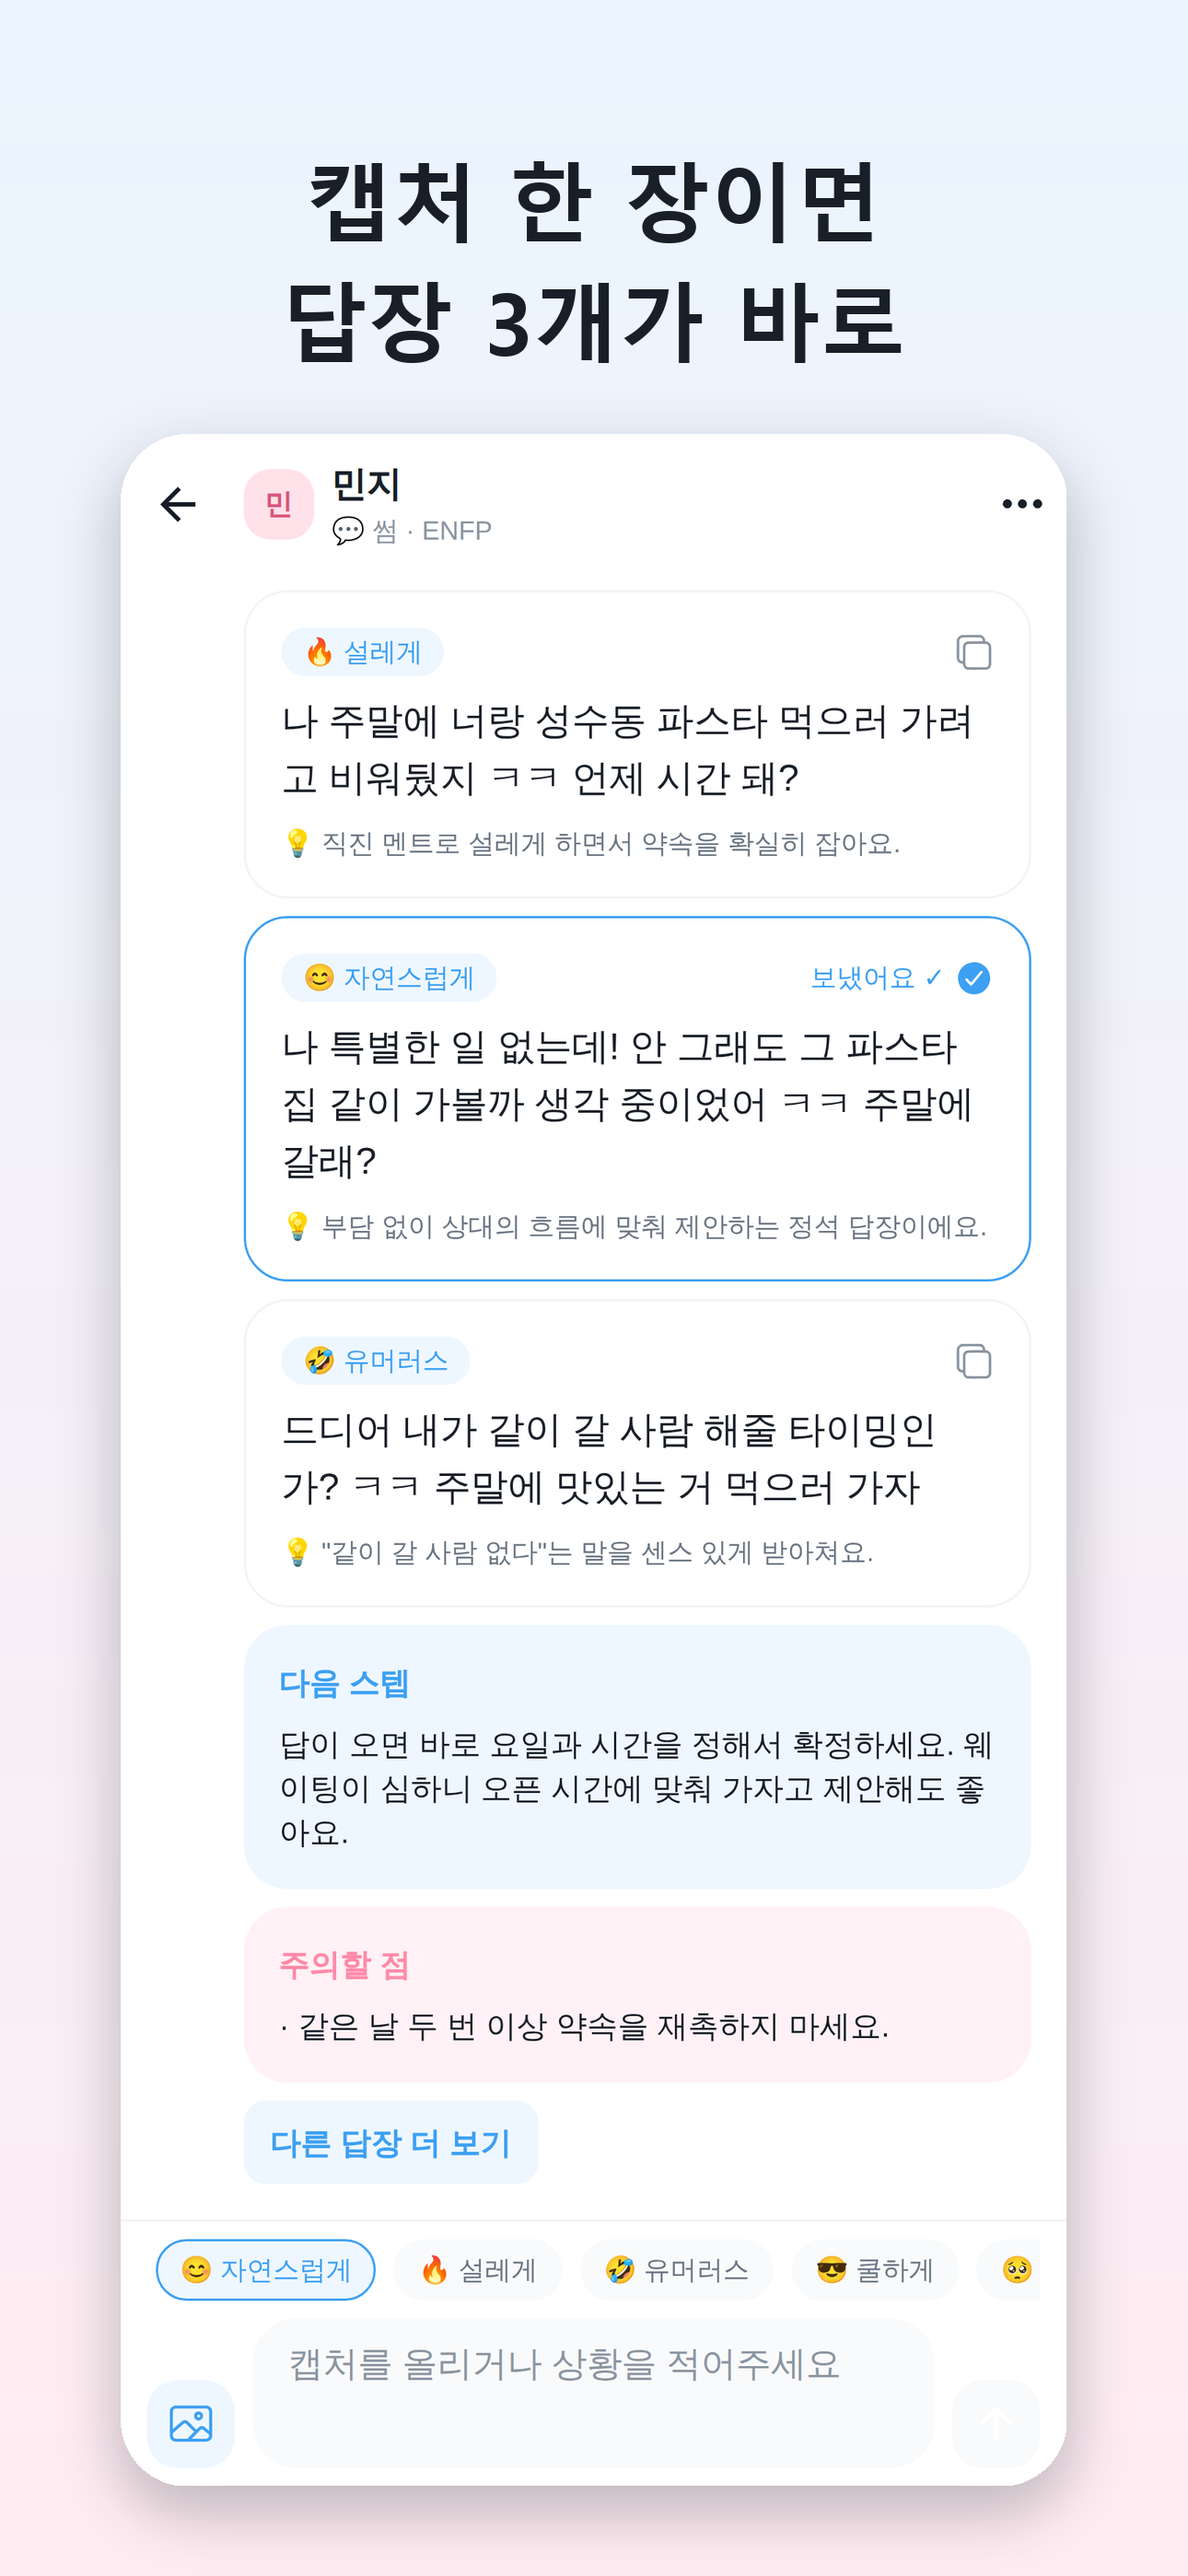
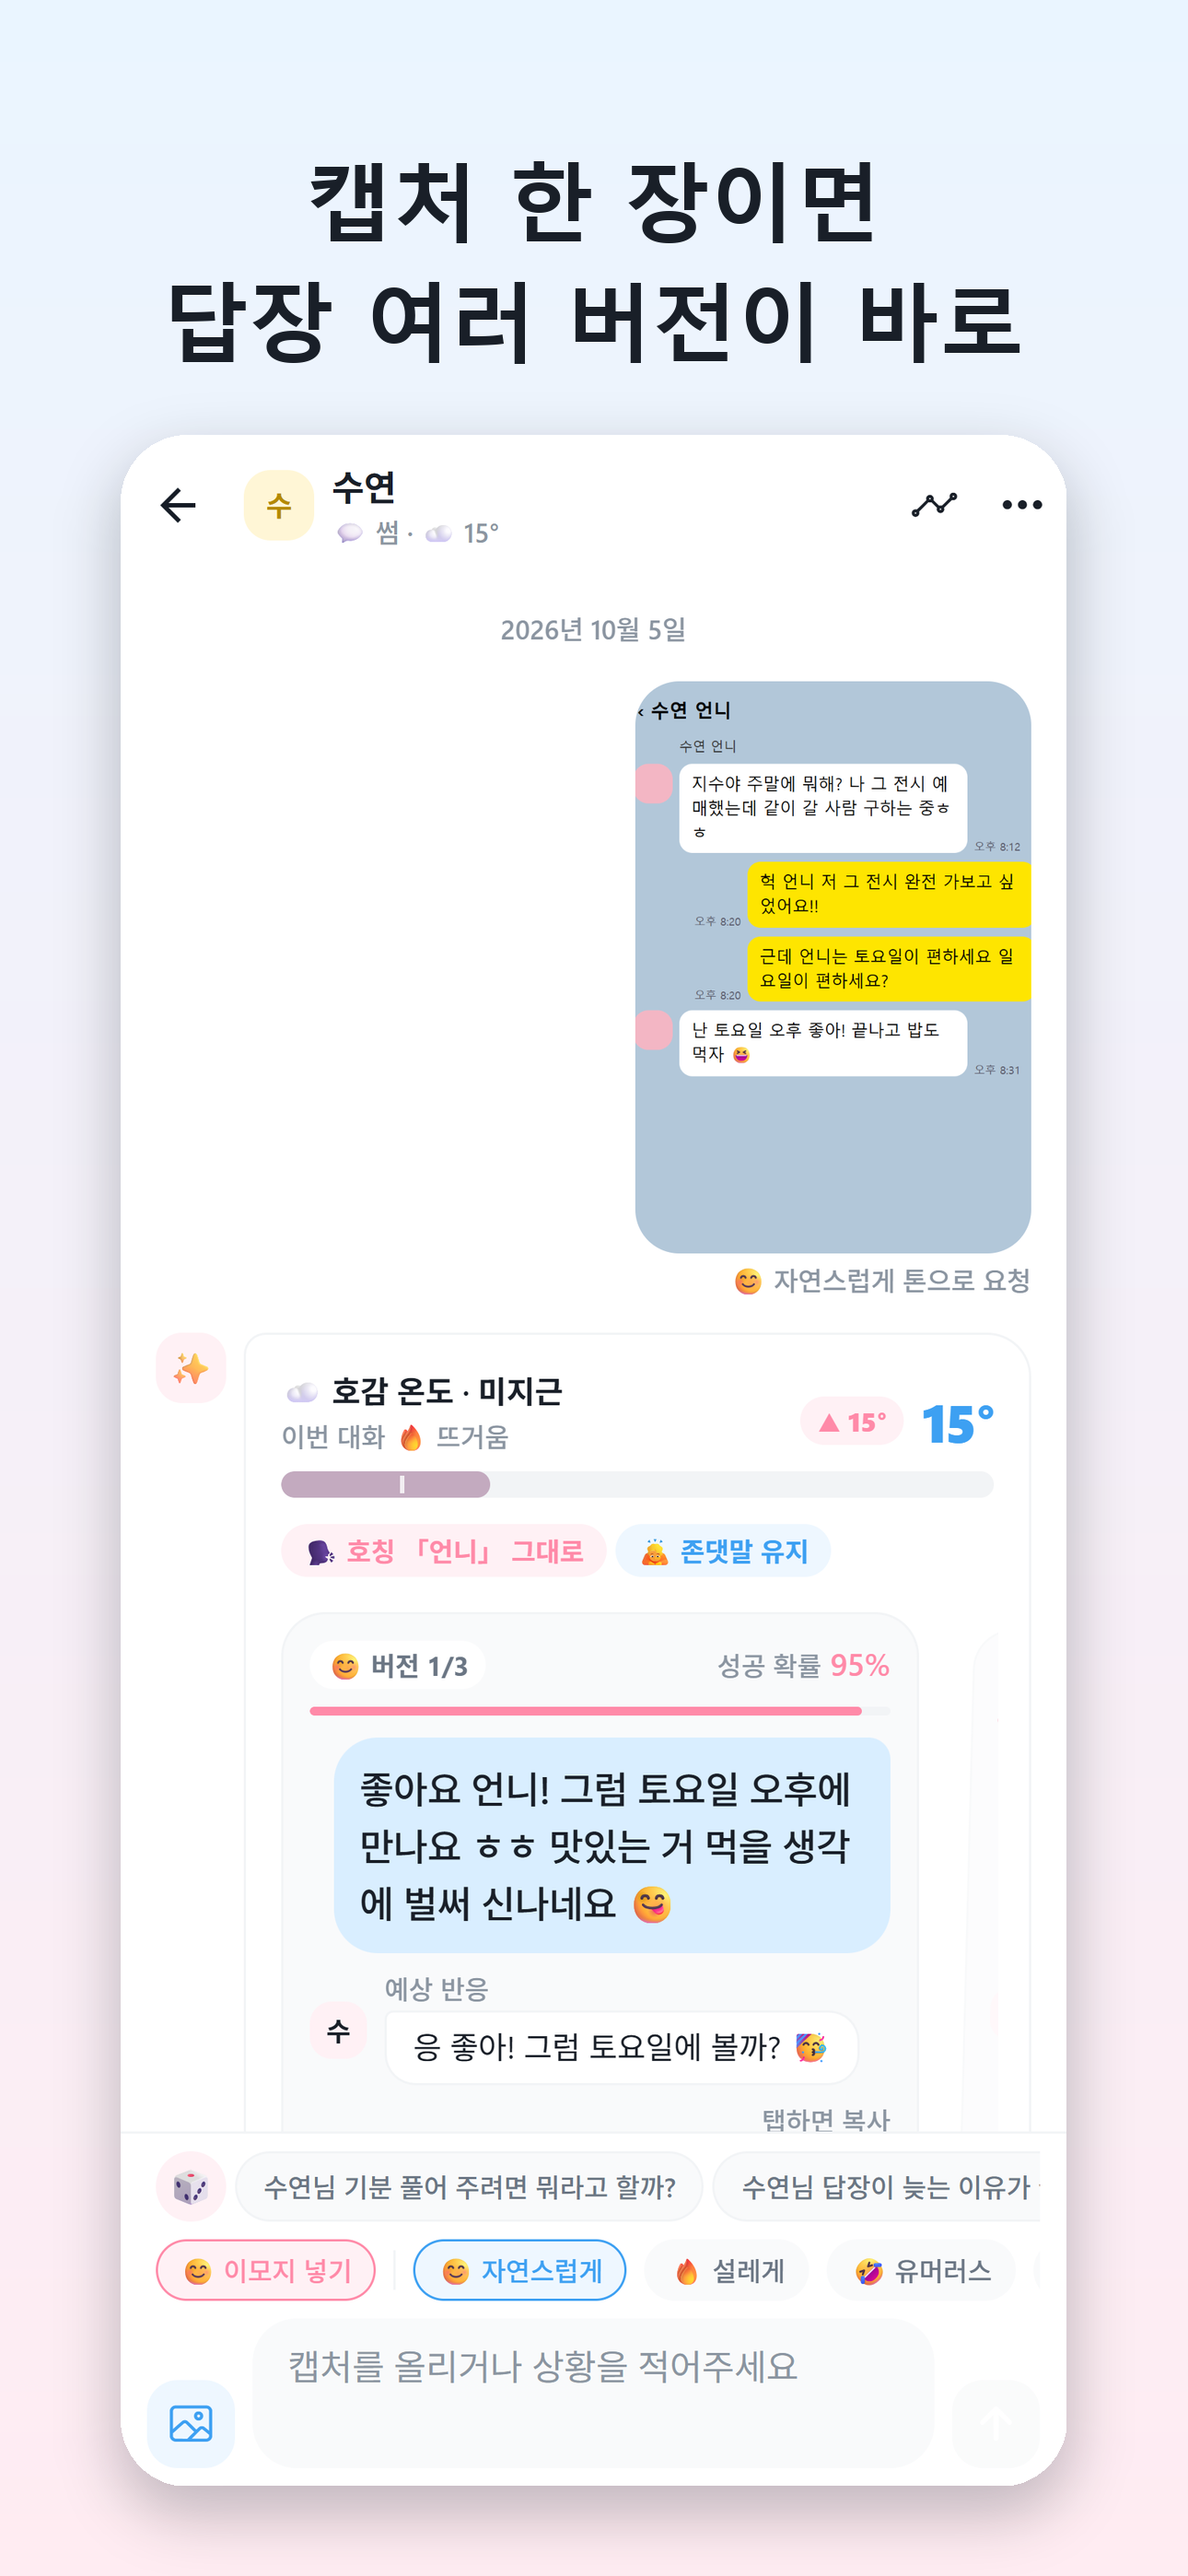
docs(store): 스토어 스크린샷 6장을 10-05 회의 기능 기준으로 새로 (답장 스와이프·연애 연습·속마음·보고서·KKTI·홈)
- 운영 AI 답변으로 캡처한 원본(ios-6.7) 하나로 App Store·Play 용 프레임을 함께 생성
- 옛 android 원본 폴더 정리, 문서의 자산 경로·캡션 갱신

diff --git a/scripts/make-store-shots.py b/scripts/make-store-shots.py
@@ -2,7 +2,8 @@
 
   python scripts/make-store-shots.py
 
-입력:  docs/store-assets/android/*.png (1082x2402), docs/store-assets/ios-6.7/*.png (1290x2796)
+입력:  docs/store-assets/ios-6.7/*.png (1290x2796) — Play 용도 같은 원본을 비율 그대로 줄여 쓴다
+       (원본은 웹 화면을 430x932 @3x 로 캡처. 2026-10-05 판은 운영 AI 답변으로 찍었다)
 출력:  docs/store-assets/play-framed/*.png   1242x2208 (9:16 — Play 는 긴 변이 짧은 변의 2배를 넘으면 거부)
        docs/store-assets/ios-6.7-framed/*.png 1290x2796 (App Store 6.7")
        docs/store-assets/play-icon-512.png
@@ -19,12 +20,12 @@ FONT = os.environ.get("FONT", r"C:\Windows\Fonts\malgunbd.ttf")
 
 # (원본 파일, 카피) — 스토어에 보이는 순서
 SHOTS = [
-    ("5-chat-replies.png", "캡처 한 장이면\n답장 3개가 바로"),
-    ("3-chat-top.png", "상대의 호감 온도를\n숫자로 확인해요"),
-    ("4-new-crush.png", "MBTI·성향까지\n상대 맞춤 코칭"),
-    ("2-home.png", "상대마다 따로,\n나만의 채팅방"),
-    ("6-tips.png", "바로 써먹는\n연애 팁 모음"),
-    ("1-onboarding.png", "가입 없이\n캡처만 올리면 끝"),
+    ("1-chat-replies.png", "캡처 한 장이면\n답장 여러 버전이 바로"),
+    ("2-practice.png", "실전 전에\nAI 상대와 카톡 연습"),
+    ("3-mind.png", "그 사람 속마음,\n가능성까지 풀어줘요"),
+    ("4-report.png", "0°에서 오르는 호감 온도\n상대 분석 보고서까지"),
+    ("5-kkti.png", "1분 KKTI 테스트로\n나만의 연애 컬러 찾기"),
+    ("6-home.png", "연습·속마음·비밀 상담\n앱 하나로 끝"),
 ]
 
 TOP = (234, 245, 255)  # 하늘색
@@ -77,7 +78,7 @@ def frame(src: Path, caption: str, size, out: Path):
 def main():
     for i, (name, caption) in enumerate(SHOTS, 1):
         stem = f"{i}-{name.split('-', 1)[1]}"
-        print("play", frame(ASSETS / "android" / name, caption, (1242, 2208), ASSETS / "play-framed" / stem), stem)
+        print("play", frame(ASSETS / "ios-6.7" / name, caption, (1242, 2208), ASSETS / "play-framed" / stem), stem)
         print("ios ", frame(ASSETS / "ios-6.7" / name, caption, (1290, 2796), ASSETS / "ios-6.7-framed" / stem), stem)
     icon = Image.open(ROOT / "assets" / "images" / "icon.png").convert("RGBA").resize((512, 512), Image.LANCZOS)
     icon.save(ASSETS / "play-icon-512.png", optimize=True)

diff --git a/docs/STORE_LISTING.md b/docs/STORE_LISTING.md
@@ -80,19 +80,20 @@
 • 횟수권: 코칭 10회 (기간 제한 없음)
 ```
 
-## 스크린샷 캡션 제안 (5장)
+## 스크린샷 캡션 (6장, 2026-10-05 판 — `scripts/make-store-shots.py` 의 SHOTS 와 같음)
 
-1. "캡처 한 장이면 답장 3개" – 채팅방 코칭 결과
-2. "상대의 호감 온도를 숫자로" – 온도 게이지 강조
-3. "MBTI·성향 맞춤 코칭" – 상대 등록 화면
-4. "원하는 톤으로 골라요" – 톤 선택 컴포저
-5. "기록은 내 폰에만" – 홈 채팅방 목록
+1. "캡처 한 장이면 답장 여러 버전이 바로" – 채팅방 코칭 결과(답장 스와이프)
+2. "실전 전에 AI 상대와 카톡 연습" – 연애 연습
+3. "그 사람 속마음, 가능성까지 풀어줘요" – 속마음 풀이
+4. "0°에서 오르는 호감 온도 상대 분석 보고서까지" – 상대 분석 보고서
+5. "1분 KKTI 테스트로 나만의 연애 컬러 찾기" – KKTI 결과
+6. "연습·속마음·비밀 상담 앱 하나로 끝" – 홈
 
 ## 그래픽 자산
 
 - 앱 아이콘: `assets/images/icon.png` (1024×1024)
 - Play 스토어 그래픽 이미지(1024×500): `docs/store-assets/feature-graphic-1024x500.png`
-- 스크린샷: `docs/store-assets/ios-6.7/` (1290×2796), `docs/store-assets/android/` (1082×2402)
+- 스크린샷: 원본 `docs/store-assets/ios-6.7/` (1290×2796) → 스토어용 `ios-6.7-framed/` (App Store), `play-framed/` (Play 1242×2208)
 
 ## 인앱결제 상품
 

diff --git a/docs/RELEASE_GUIDE.md b/docs/RELEASE_GUIDE.md
@@ -93,8 +93,8 @@ npx expo-doctor
 
 ## 준비된 스토어 자산
 
-- `docs/store-assets/ios-6.7/` – iPhone 6.7" 규격(1290×2796) 스크린샷 6장
-- `docs/store-assets/android/` – 안드로이드 규격(1082×2402) 스크린샷 6장
+- `docs/store-assets/ios-6.7/` – 원본 캡처(1290×2796) 6장 — Play 도 이 원본을 씀
+- `docs/store-assets/ios-6.7-framed/` · `play-framed/` – 카피를 얹은 스토어용(App Store 1290×2796 · Play 1242×2208), `python scripts/make-store-shots.py` 로 다시 만듦
 - `docs/store-assets/feature-graphic-1024x500.png` – Play 스토어 그래픽 이미지
 - `assets/images/icon.png` – 앱 아이콘 1024×1024
 - 등록 문구: `docs/STORE_LISTING.md`
